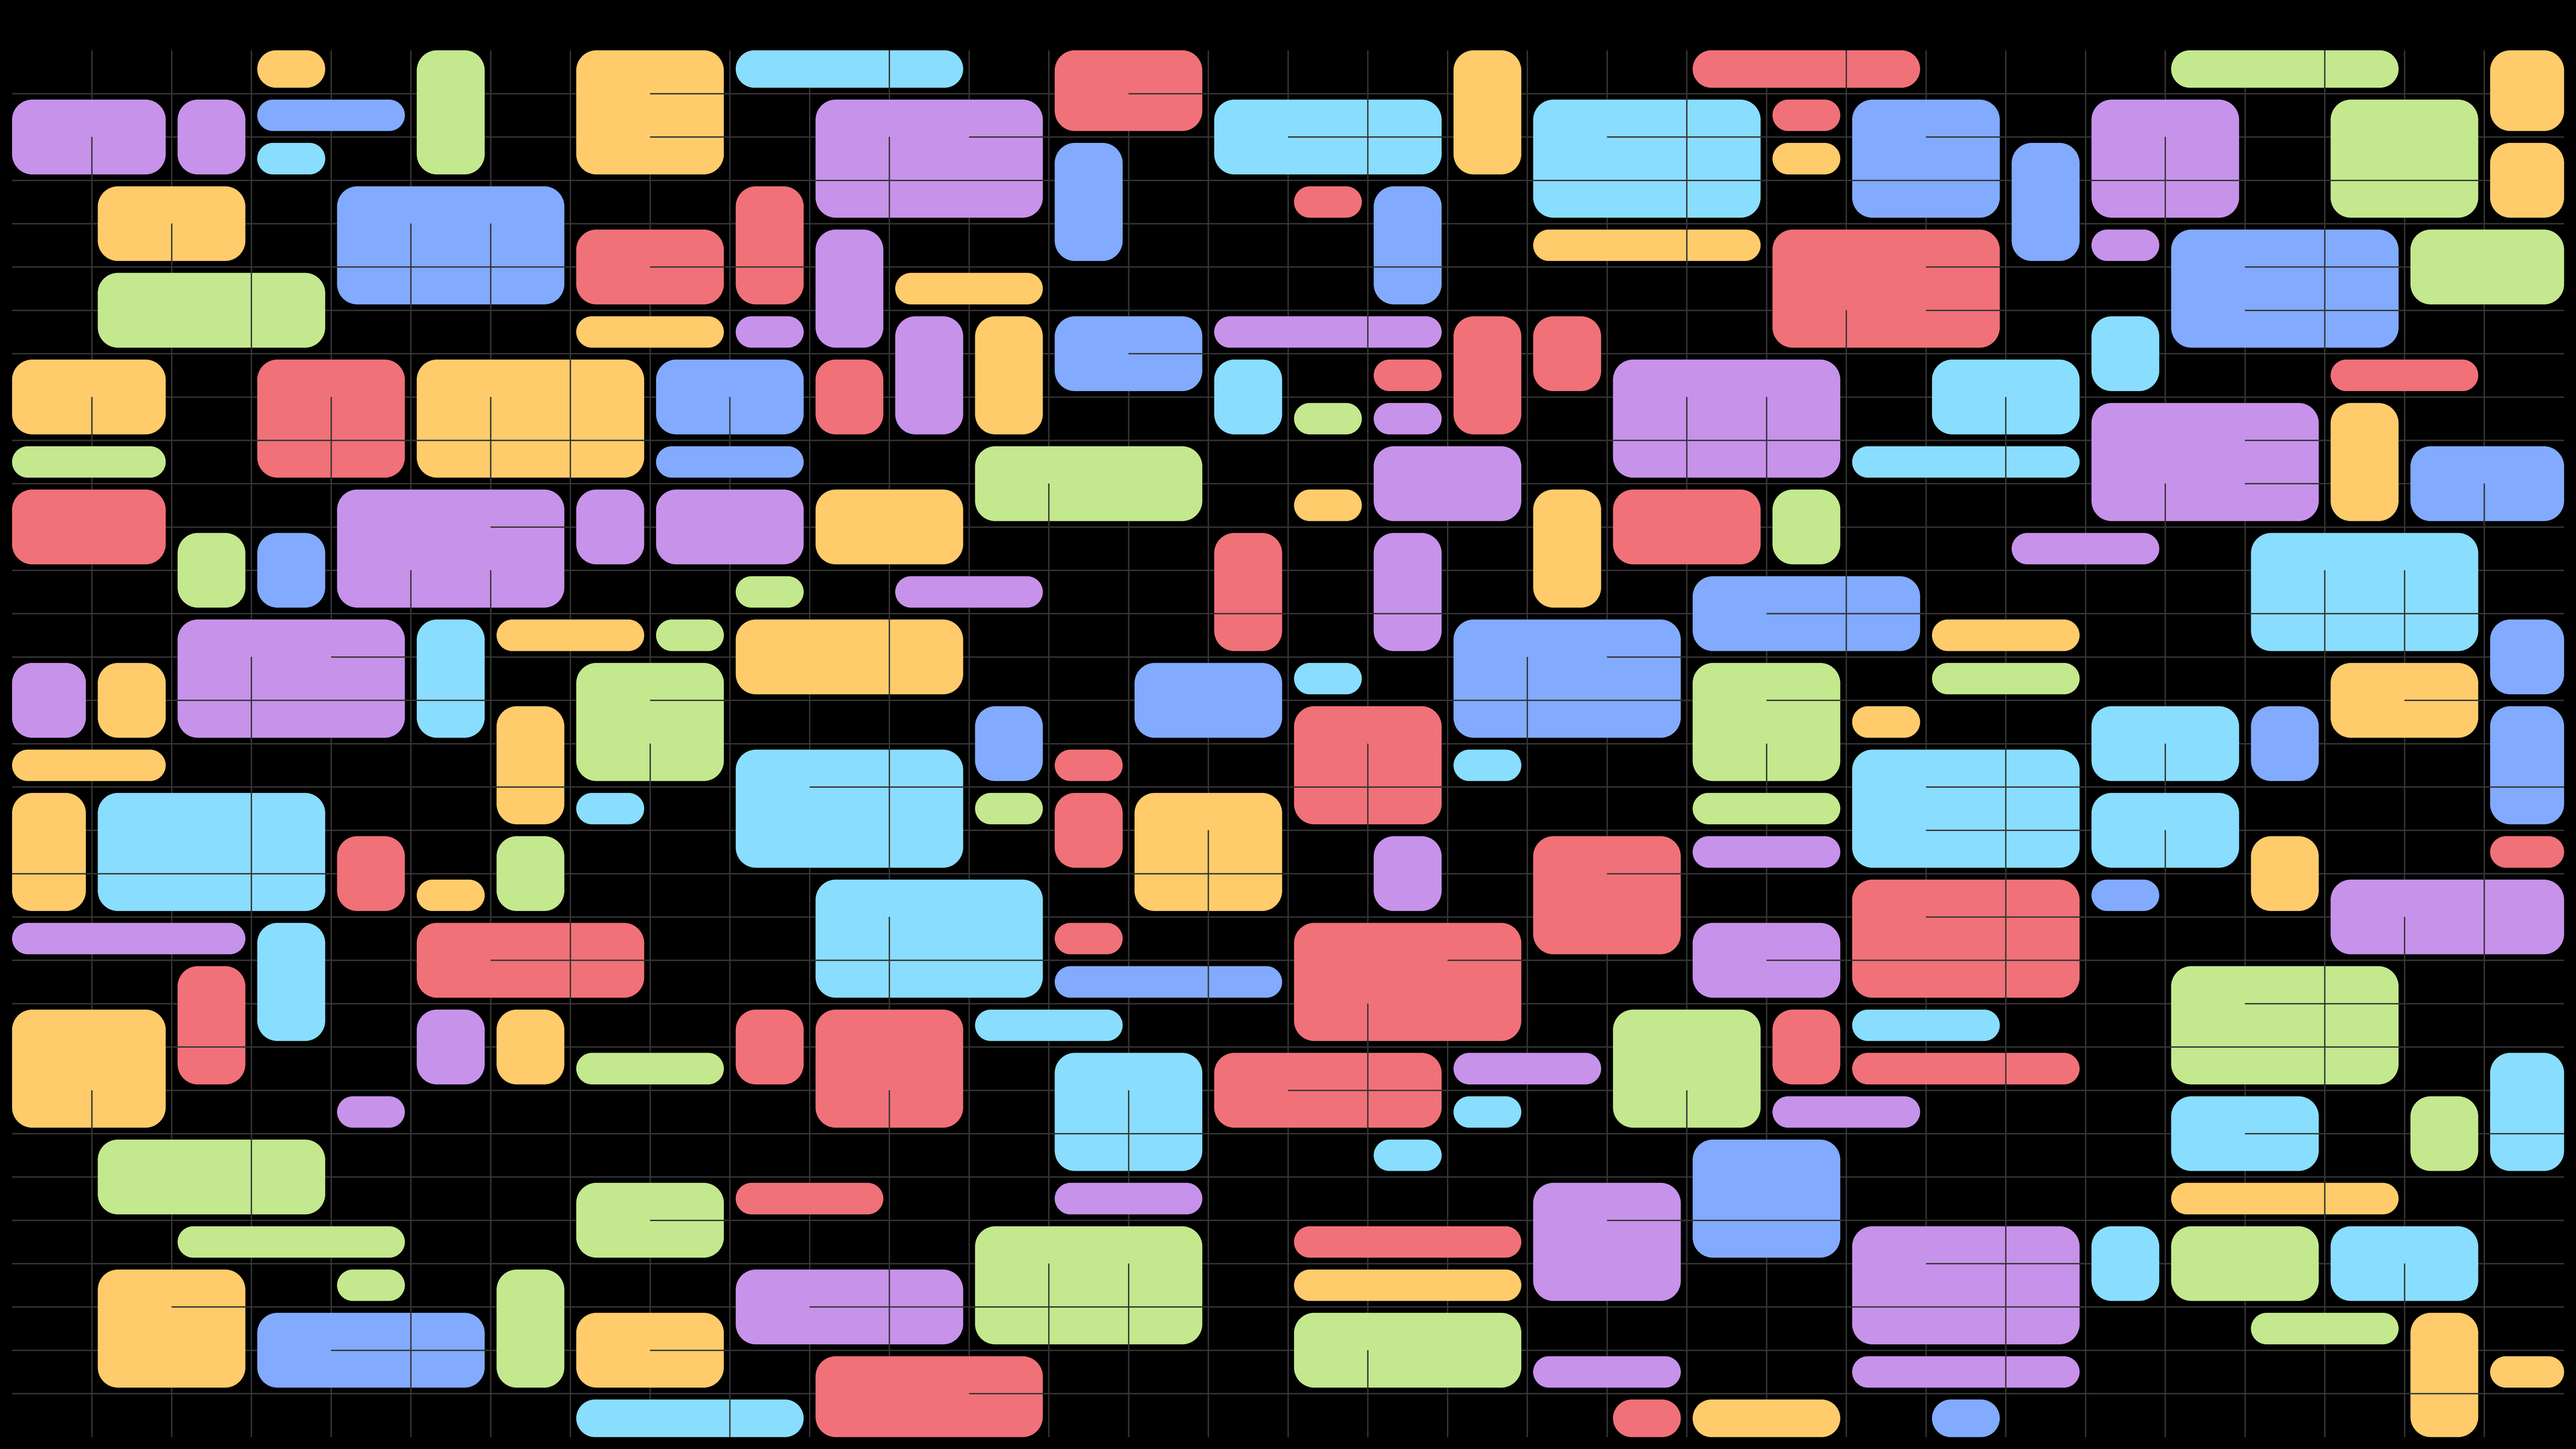
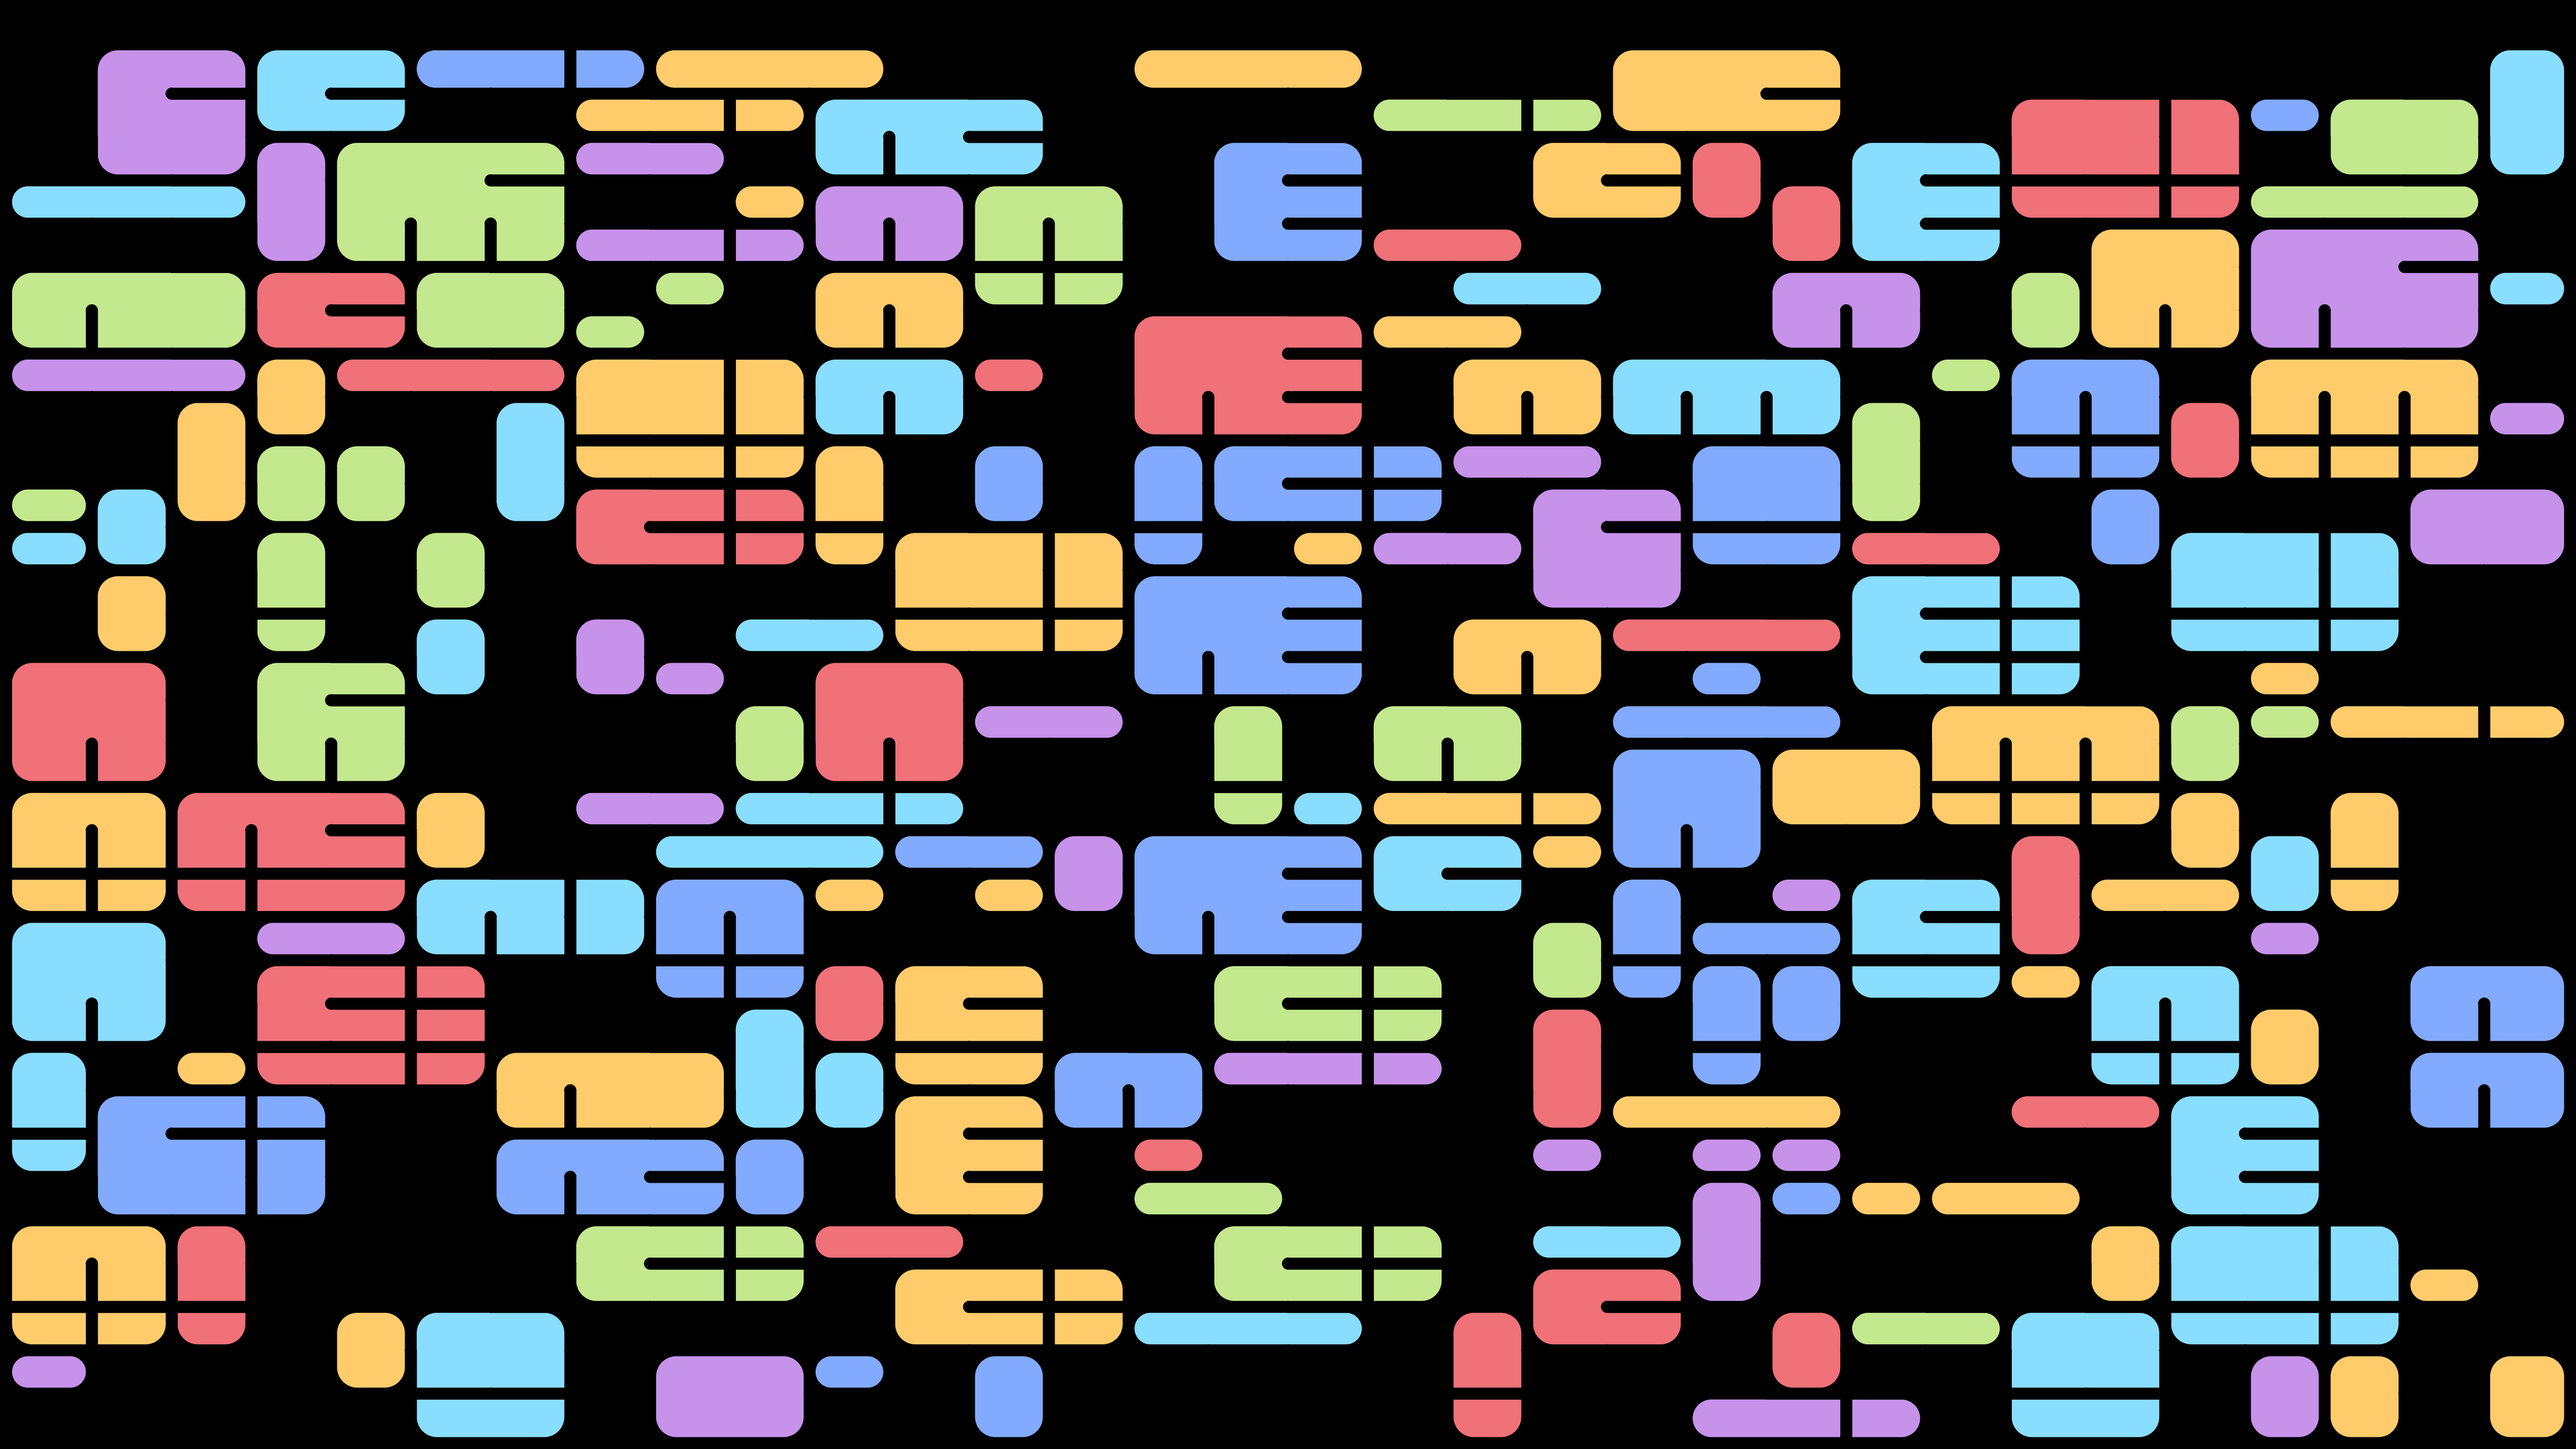
Add customizable grid line color and improve grid line rendering
Introduces a new `GRID_LINE_COLOR` variable, allowing customization of grid line color. Updates the grid rendering logic to use rounded ends for grid lines and matching caps for smoother visual appearance. Adjusts the line width to match the gap size, enhancing alignment and aesthetics. Updates associated wallpaper assets.

diff --git a/wallpapers/doodle_wallpaper.py b/wallpapers/doodle_wallpaper.py
@@ -32,6 +32,7 @@ MAX_MERGE_SIZE = 3  # Maximum size of merged cells (1 = no merging, 2 = 2x2, 3 =
 RENDER_SCALE = 4  # Render at higher resolution and downsample for smoother edges
 DRAW_GRID_LINES = True  # Set to True to draw grid lines for alignment verification
 SHAPE_MARGIN = 0.5  # Margin multiplier for shapes (0.5 = half gap, 1.0 = full gap, etc.)
+GRID_LINE_COLOR = (0, 0, 0)  # Color for grid lines (default: black)
 
 # Color Palette (RGB tuples)
 COLOR_PALETTE = [
@@ -141,12 +142,22 @@ def draw_recursive_shapes(draw, x, y, w, h, level, min_level, padding, filled_ce
     
     # Draw grid lines if enabled (for debugging)
     if DRAW_GRID_LINES:
-        line_color = (53, 53, 53)  # Dark gray
-        line_width = max(1, int(2 * RENDER_SCALE))
-        # Vertical line
-        draw.line([(mid_x, y), (mid_x, y + h)], fill=line_color, width=line_width)
-        # Horizontal line
-        draw.line([(x, mid_y), (x + w, mid_y)], fill=line_color, width=line_width)
+        line_width = int(gap_px)  # Match gap width
+        radius = line_width // 2
+        
+        # Vertical line with rounded ends (extends to merge with caps)
+        draw.line([(mid_x, y), (mid_x, y + h)], fill=GRID_LINE_COLOR, width=line_width)
+        # Top circle cap centered at intersection
+        draw.ellipse([(mid_x - radius, y - radius), (mid_x + radius, y + radius)], fill=GRID_LINE_COLOR)
+        # Bottom circle cap centered at intersection
+        draw.ellipse([(mid_x - radius, y + h - radius), (mid_x + radius, y + h + radius)], fill=GRID_LINE_COLOR)
+        
+        # Horizontal line with rounded ends (extends to merge with caps)
+        draw.line([(x, mid_y), (x + w, mid_y)], fill=GRID_LINE_COLOR, width=line_width)
+        # Left circle cap centered at intersection
+        draw.ellipse([(x - radius, mid_y - radius), (x + radius, mid_y + radius)], fill=GRID_LINE_COLOR)
+        # Right circle cap centered at intersection
+        draw.ellipse([(x + w - radius, mid_y - radius), (x + w + radius, mid_y + radius)], fill=GRID_LINE_COLOR)
     
     # Recurse into four quadrants
     draw_recursive_shapes(draw, x, y, new_w, new_h, level - 1, min_level, padding, filled_cells, container_x, container_y, container_w, container_h, corner_radius)
